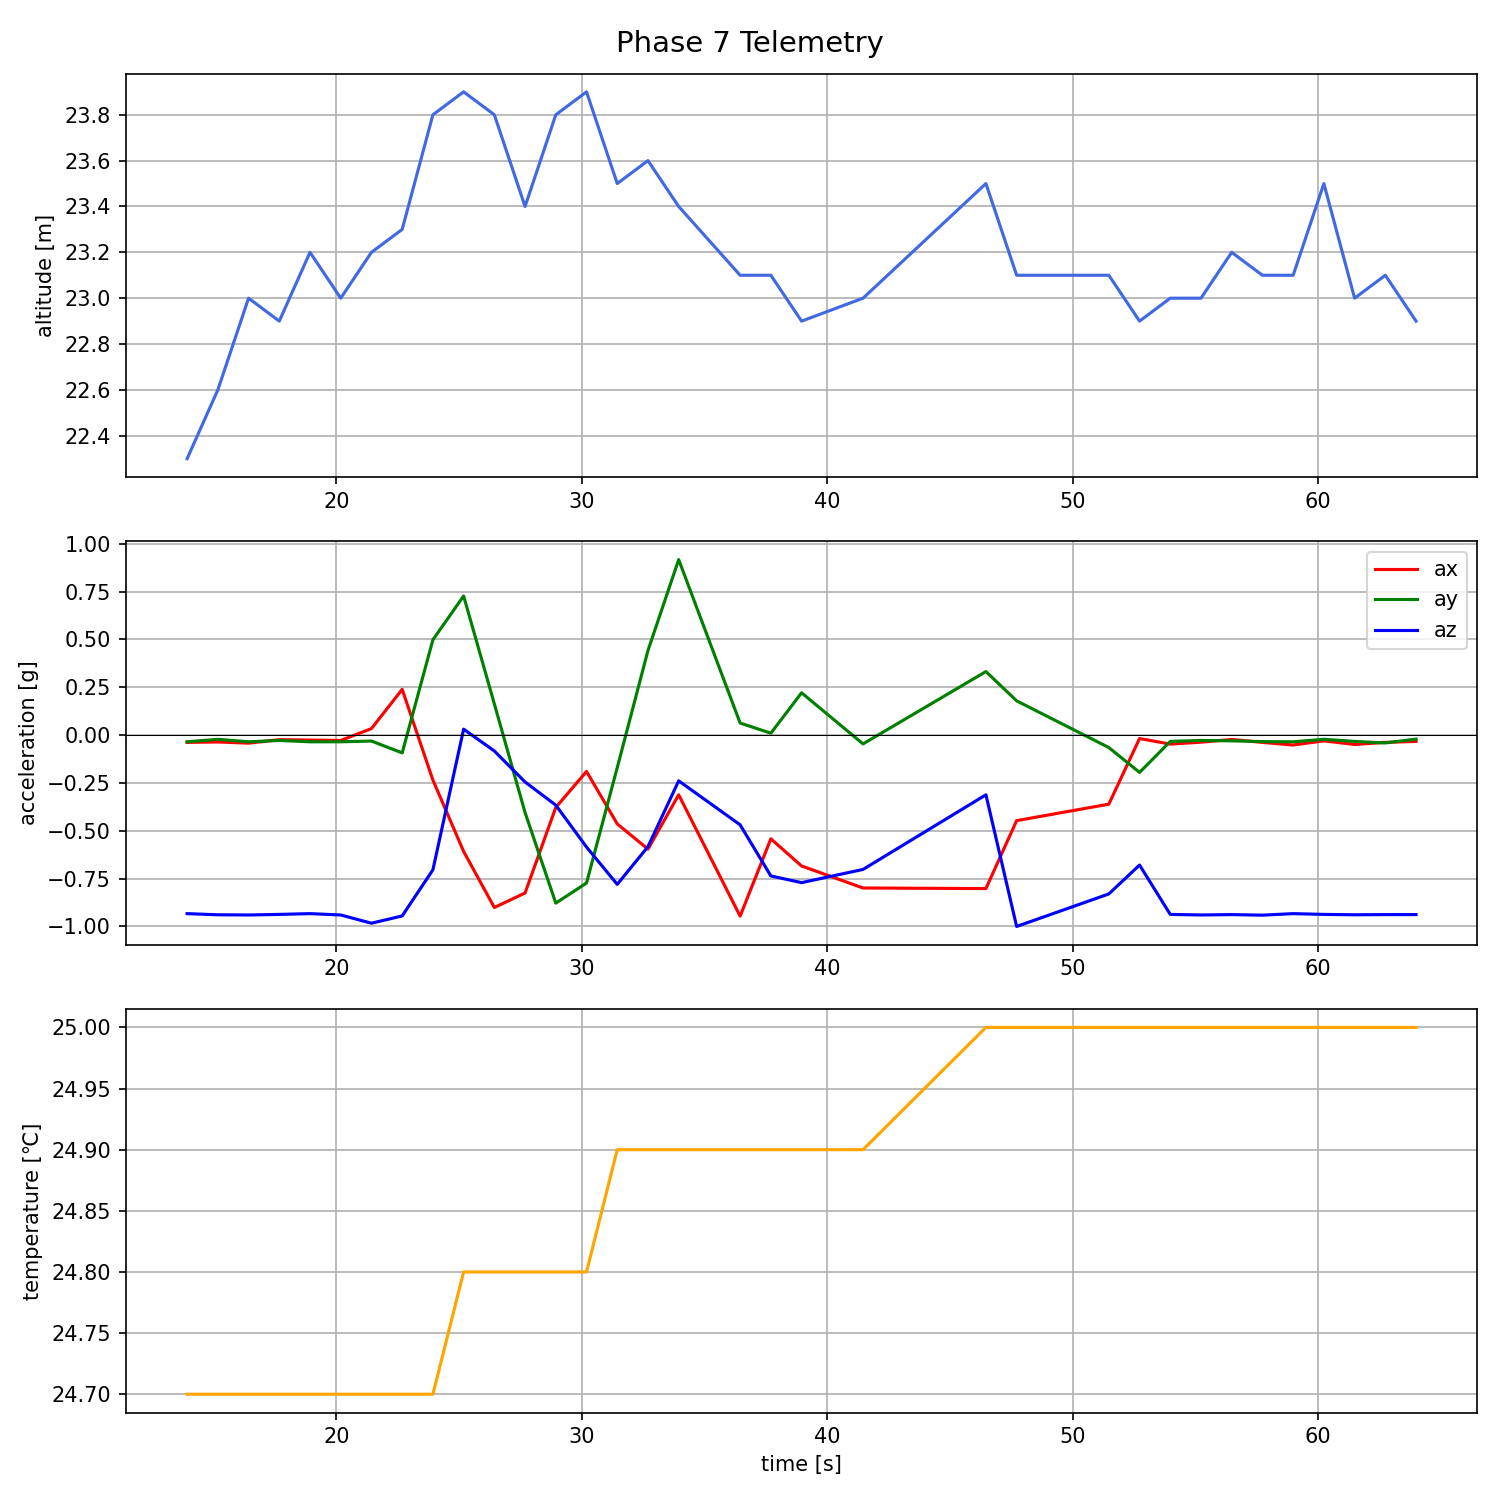
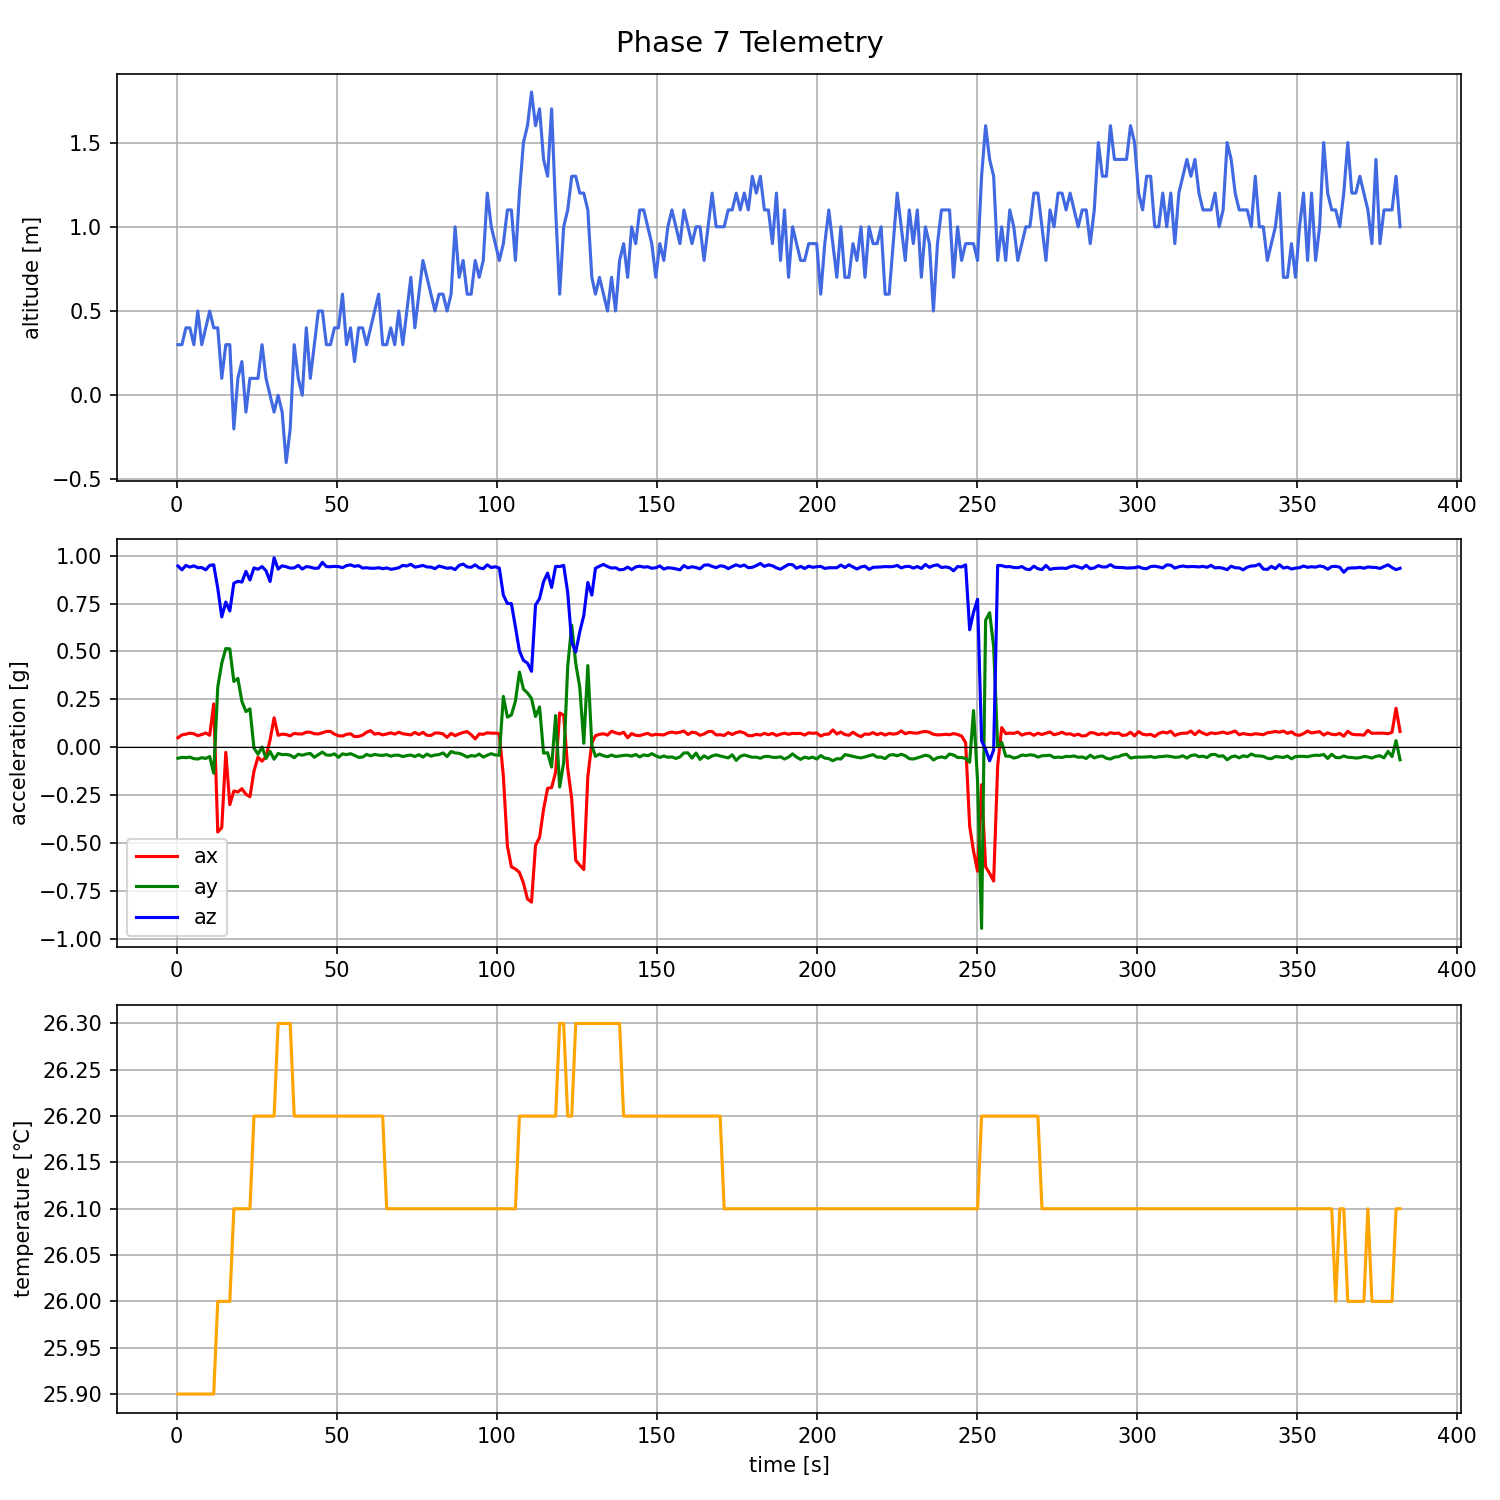
update

diff --git a/phase7/plot_telemetry.py b/phase7/plot_telemetry.py
@@ -3,7 +3,7 @@ import matplotlib
 matplotlib.use('Agg')
 import matplotlib.pyplot as plt
 
-df = pd.read_csv('../data/telemetry_20260429_161234.csv')
+df = pd.read_csv('log_20.csv')
 df = df.apply(pd.to_numeric, errors='coerce')
 df = df.dropna()
 df['time_s'] = df['time_ms'] / 1000.0
@@ -29,5 +29,5 @@ axes[2].set_xlabel('time [s]') #時間
 axes[2].grid(True)
 
 plt.tight_layout()
-plt.savefig('/telemetry_plot.png', dpi=150)
+plt.savefig('telemetry_plot.png', dpi=150)
 print("保存完了: telemetry_plot.png")
